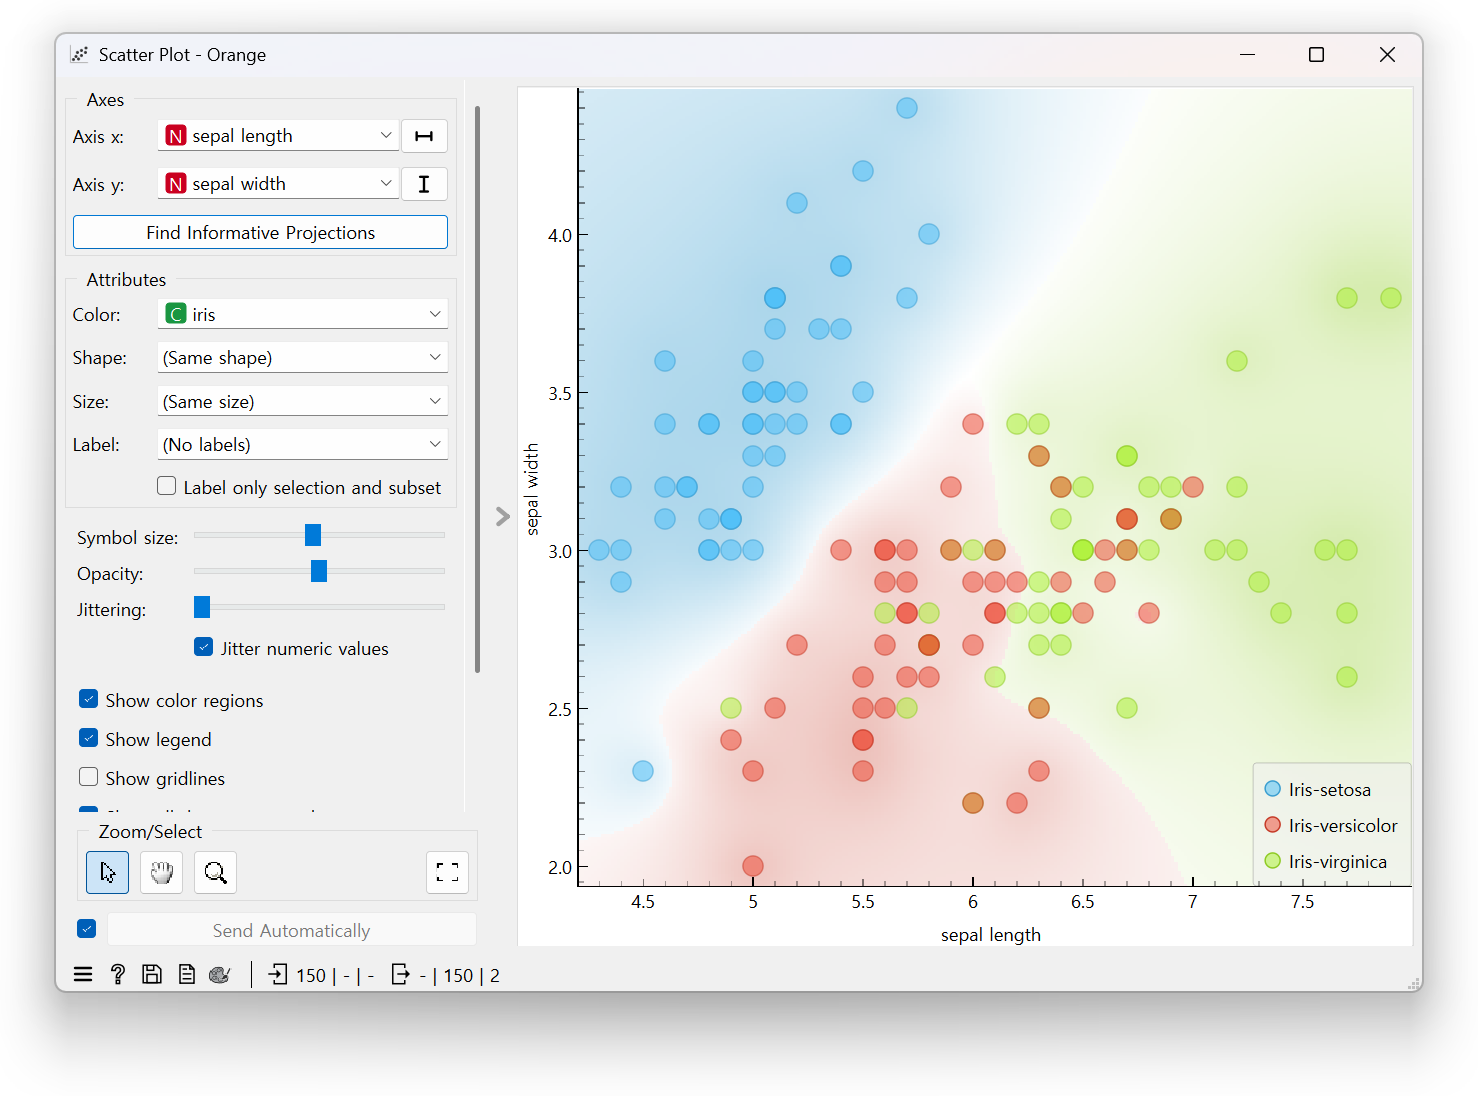
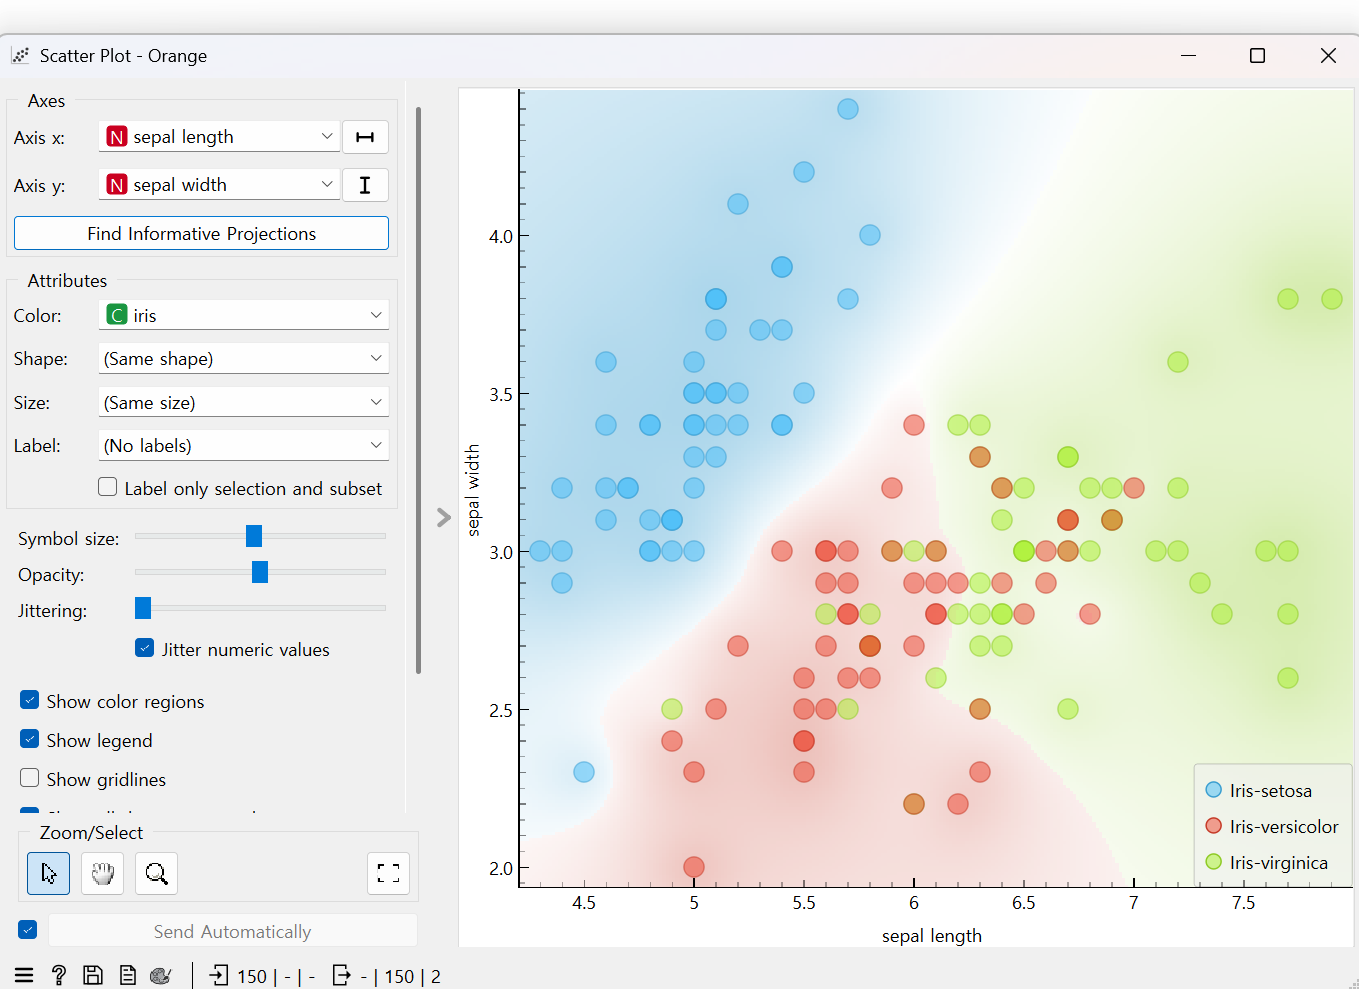
Crop result asset to Orange window chrome only
Trim the white card matte around Scatter Plot - Orange and use
drop-shadow instead of a rectangular box-shadow so the popup reads
as one window on the canvas.

diff --git a/index.html b/index.html
@@ -3275,7 +3275,13 @@
   }
   .result-popup[hidden] { display: none !important; }
   .result-popup.is-spotlighted {
-    z-index: 46;
+    position: fixed;
+    z-index: 125;
+    pointer-events: none;
+  }
+  .result-popup.is-spotlighted .result-popup-window {
+    pointer-events: auto;
+    filter: drop-shadow(0 14px 28px rgba(20, 28, 48, .32));
   }
   .result-popup-window {
     position: relative;
@@ -3284,17 +3290,11 @@
     background: transparent;
     border-radius: 0;
     border: none;
-    box-shadow:
-      0 10px 28px rgba(20, 28, 48, .28),
-      0 2px 6px rgba(20, 28, 48, .12);
+    box-shadow: none;
+    filter: drop-shadow(0 10px 22px rgba(20, 28, 48, .28));
     overflow: visible;
     line-height: 0;
     animation: quickStartIn .35s cubic-bezier(.22, 1, .36, 1);
-  }
-  .result-popup.is-spotlighted .result-popup-window {
-    box-shadow:
-      0 12px 36px rgba(20, 28, 48, .32),
-      0 2px 8px rgba(20, 28, 48, .14);
   }
   .result-popup-title-sr {
     position: absolute;
@@ -6619,9 +6619,11 @@ tabSeq = Math.max(tabSeq, (tabsList?.querySelectorAll('.tab').length || 0) + 1);
     const el = document.getElementById('resultPopup');
     if (!el || !canvasWrap) return;
     const wrap = canvasWrap.getBoundingClientRect();
-    const popupW = Math.min(640, Math.max(300, wrap.width - 36));
-    let left = Math.max(16, wrap.width * 0.34);
-    let top = Math.max(16, wrap.height * 0.08);
+    const spotlighted = el.classList.contains('is-spotlighted');
+    // Keep width modest so the full Orange window fits without letterboxed white bars.
+    const popupW = Math.min(520, Math.max(280, Math.min(wrap.width - 28, wrap.height * 1.05)));
+    let left = Math.max(12, wrap.width * 0.36);
+    let top = Math.max(12, wrap.height * 0.06);
     const scatterEl = guideScatterNodeEl();
     const file = nodes.find(n => n.type === 'file');
     const fileEl = file
@@ -6630,18 +6632,23 @@ tabSeq = Math.max(tabSeq, (tabsList?.querySelectorAll('.tab').length || 0) + 1);
     const anchor = scatterEl || fileEl;
     if (anchor) {
       const r = anchor.getBoundingClientRect();
-      // Place to the right of the widget cluster, still inside the canvas.
-      left = r.right - wrap.left + 24;
-      top = Math.max(16, r.top - wrap.top - 8);
-      if (left + popupW > wrap.width - 12) {
-        left = Math.max(12, wrap.width - popupW - 12);
-        top = Math.min(wrap.height - 80, r.bottom - wrap.top + 16);
+      left = r.right - wrap.left + 20;
+      top = Math.max(12, r.top - wrap.top - 4);
+      if (left + popupW > wrap.width - 10) {
+        left = Math.max(10, wrap.width - popupW - 10);
+        top = Math.min(wrap.height - 80, r.bottom - wrap.top + 12);
       }
     }
-    top = Math.min(top, Math.max(16, wrap.height - 140));
-    el.style.width = `${popupW}px`;
-    el.style.left = `${Math.round(left)}px`;
-    el.style.top = `${Math.round(top)}px`;
+    top = Math.min(top, Math.max(12, wrap.height - 100));
+    el.style.width = `${Math.round(popupW)}px`;
+    if (spotlighted) {
+      // Fixed above the dim overlay — use viewport coordinates.
+      el.style.left = `${Math.round(wrap.left + left)}px`;
+      el.style.top = `${Math.round(wrap.top + top)}px`;
+    } else {
+      el.style.left = `${Math.round(left)}px`;
+      el.style.top = `${Math.round(top)}px`;
+    }
   }
 
   function openResultPopup({ spotlighted = false } = {}) {
@@ -6820,18 +6827,38 @@ tabSeq = Math.max(tabSeq, (tabsList?.querySelectorAll('.tab').length || 0) + 1);
   function refreshSpotlightLayout() {
     if (!spotlightTourActive) return;
     if (spotlightResultReveal) {
-      // Soft dim around the Orange window only; hide ring so it isn't a second chrome/frame.
-      const popup = document.getElementById('resultPopup');
-      layoutSpotlight(popup && !popup.hidden ? popup : guideResultTargets());
-      if (spotlightRing) spotlightRing.hidden = true;
-      // Soften shades during result so the window feels on-canvas, not trapped in a hole
-      spotlightShades.forEach(s => {
-        s.style.background = 'rgba(20, 28, 48, .42)';
-        s.style.backdropFilter = 'blur(0.5px)';
+      // Full soft dim with NO cutout hole — a hole reads as a second white frame around the Orange window.
+      const vw = window.innerWidth;
+      const vh = window.innerHeight;
+      const bySide = Object.fromEntries(spotlightShades.map(s => [s.dataset.side, s]));
+      if (bySide.top) {
+        bySide.top.style.display = '';
+        Object.assign(bySide.top.style, {
+          left: '0px', top: '0px', width: '100%', height: `${vh}px`,
+          background: 'rgba(20, 28, 48, .38)',
+          backdropFilter: 'blur(0.5px)',
+        });
+      }
+      ['left', 'right', 'bottom'].forEach(side => {
+        if (!bySide[side]) return;
+        bySide[side].style.display = 'none';
       });
+      if (spotlightRing) spotlightRing.hidden = true;
+      // Keep tooltip viewport-centered (shared with other steps).
+      if (spotlightTooltip && !spotlightTooltip.hidden) {
+        Object.assign(spotlightTooltip.style, {
+          left: '50%',
+          top: '50%',
+          transform: 'translate(-50%, -50%)',
+          right: 'auto',
+          bottom: 'auto',
+        });
+      }
+      positionResultPopupOnCanvas();
       return;
     }
     spotlightShades.forEach(s => {
+      s.style.display = '';
       s.style.background = '';
       s.style.backdropFilter = '';
     });

diff --git a/orange-local/index.html b/orange-local/index.html
@@ -3264,7 +3264,13 @@
   }
   .result-popup[hidden] { display: none !important; }
   .result-popup.is-spotlighted {
-    z-index: 46;
+    position: fixed;
+    z-index: 125;
+    pointer-events: none;
+  }
+  .result-popup.is-spotlighted .result-popup-window {
+    pointer-events: auto;
+    filter: drop-shadow(0 14px 28px rgba(20, 28, 48, .32));
   }
   .result-popup-window {
     position: relative;
@@ -3273,17 +3279,11 @@
     background: transparent;
     border-radius: 0;
     border: none;
-    box-shadow:
-      0 10px 28px rgba(20, 28, 48, .28),
-      0 2px 6px rgba(20, 28, 48, .12);
+    box-shadow: none;
+    filter: drop-shadow(0 10px 22px rgba(20, 28, 48, .28));
     overflow: visible;
     line-height: 0;
     animation: quickStartIn .35s cubic-bezier(.22, 1, .36, 1);
-  }
-  .result-popup.is-spotlighted .result-popup-window {
-    box-shadow:
-      0 12px 36px rgba(20, 28, 48, .32),
-      0 2px 8px rgba(20, 28, 48, .14);
   }
   .result-popup-title-sr {
     position: absolute;
@@ -6602,9 +6602,11 @@ tabSeq = Math.max(tabSeq, (tabsList?.querySelectorAll('.tab').length || 0) + 1);
     const el = document.getElementById('resultPopup');
     if (!el || !canvasWrap) return;
     const wrap = canvasWrap.getBoundingClientRect();
-    const popupW = Math.min(640, Math.max(300, wrap.width - 36));
-    let left = Math.max(16, wrap.width * 0.34);
-    let top = Math.max(16, wrap.height * 0.08);
+    const spotlighted = el.classList.contains('is-spotlighted');
+    // Keep width modest so the full Orange window fits without letterboxed white bars.
+    const popupW = Math.min(520, Math.max(280, Math.min(wrap.width - 28, wrap.height * 1.05)));
+    let left = Math.max(12, wrap.width * 0.36);
+    let top = Math.max(12, wrap.height * 0.06);
     const scatterEl = guideScatterNodeEl();
     const file = nodes.find(n => n.type === 'file');
     const fileEl = file
@@ -6613,18 +6615,23 @@ tabSeq = Math.max(tabSeq, (tabsList?.querySelectorAll('.tab').length || 0) + 1);
     const anchor = scatterEl || fileEl;
     if (anchor) {
       const r = anchor.getBoundingClientRect();
-      // Place to the right of the widget cluster, still inside the canvas.
-      left = r.right - wrap.left + 24;
-      top = Math.max(16, r.top - wrap.top - 8);
-      if (left + popupW > wrap.width - 12) {
-        left = Math.max(12, wrap.width - popupW - 12);
-        top = Math.min(wrap.height - 80, r.bottom - wrap.top + 16);
+      left = r.right - wrap.left + 20;
+      top = Math.max(12, r.top - wrap.top - 4);
+      if (left + popupW > wrap.width - 10) {
+        left = Math.max(10, wrap.width - popupW - 10);
+        top = Math.min(wrap.height - 80, r.bottom - wrap.top + 12);
       }
     }
-    top = Math.min(top, Math.max(16, wrap.height - 140));
-    el.style.width = `${popupW}px`;
-    el.style.left = `${Math.round(left)}px`;
-    el.style.top = `${Math.round(top)}px`;
+    top = Math.min(top, Math.max(12, wrap.height - 100));
+    el.style.width = `${Math.round(popupW)}px`;
+    if (spotlighted) {
+      // Fixed above the dim overlay — use viewport coordinates.
+      el.style.left = `${Math.round(wrap.left + left)}px`;
+      el.style.top = `${Math.round(wrap.top + top)}px`;
+    } else {
+      el.style.left = `${Math.round(left)}px`;
+      el.style.top = `${Math.round(top)}px`;
+    }
   }
 
   function openResultPopup({ spotlighted = false } = {}) {
@@ -6803,18 +6810,38 @@ tabSeq = Math.max(tabSeq, (tabsList?.querySelectorAll('.tab').length || 0) + 1);
   function refreshSpotlightLayout() {
     if (!spotlightTourActive) return;
     if (spotlightResultReveal) {
-      // Soft dim around the Orange window only; hide ring so it isn't a second chrome/frame.
-      const popup = document.getElementById('resultPopup');
-      layoutSpotlight(popup && !popup.hidden ? popup : guideResultTargets());
-      if (spotlightRing) spotlightRing.hidden = true;
-      // Soften shades during result so the window feels on-canvas, not trapped in a hole
-      spotlightShades.forEach(s => {
-        s.style.background = 'rgba(20, 28, 48, .42)';
-        s.style.backdropFilter = 'blur(0.5px)';
+      // Full soft dim with NO cutout hole — a hole reads as a second white frame around the Orange window.
+      const vw = window.innerWidth;
+      const vh = window.innerHeight;
+      const bySide = Object.fromEntries(spotlightShades.map(s => [s.dataset.side, s]));
+      if (bySide.top) {
+        bySide.top.style.display = '';
+        Object.assign(bySide.top.style, {
+          left: '0px', top: '0px', width: '100%', height: `${vh}px`,
+          background: 'rgba(20, 28, 48, .38)',
+          backdropFilter: 'blur(0.5px)',
+        });
+      }
+      ['left', 'right', 'bottom'].forEach(side => {
+        if (!bySide[side]) return;
+        bySide[side].style.display = 'none';
       });
+      if (spotlightRing) spotlightRing.hidden = true;
+      // Keep tooltip viewport-centered (shared with other steps).
+      if (spotlightTooltip && !spotlightTooltip.hidden) {
+        Object.assign(spotlightTooltip.style, {
+          left: '50%',
+          top: '50%',
+          transform: 'translate(-50%, -50%)',
+          right: 'auto',
+          bottom: 'auto',
+        });
+      }
+      positionResultPopupOnCanvas();
       return;
     }
     spotlightShades.forEach(s => {
+      s.style.display = '';
       s.style.background = '';
       s.style.backdropFilter = '';
     });
